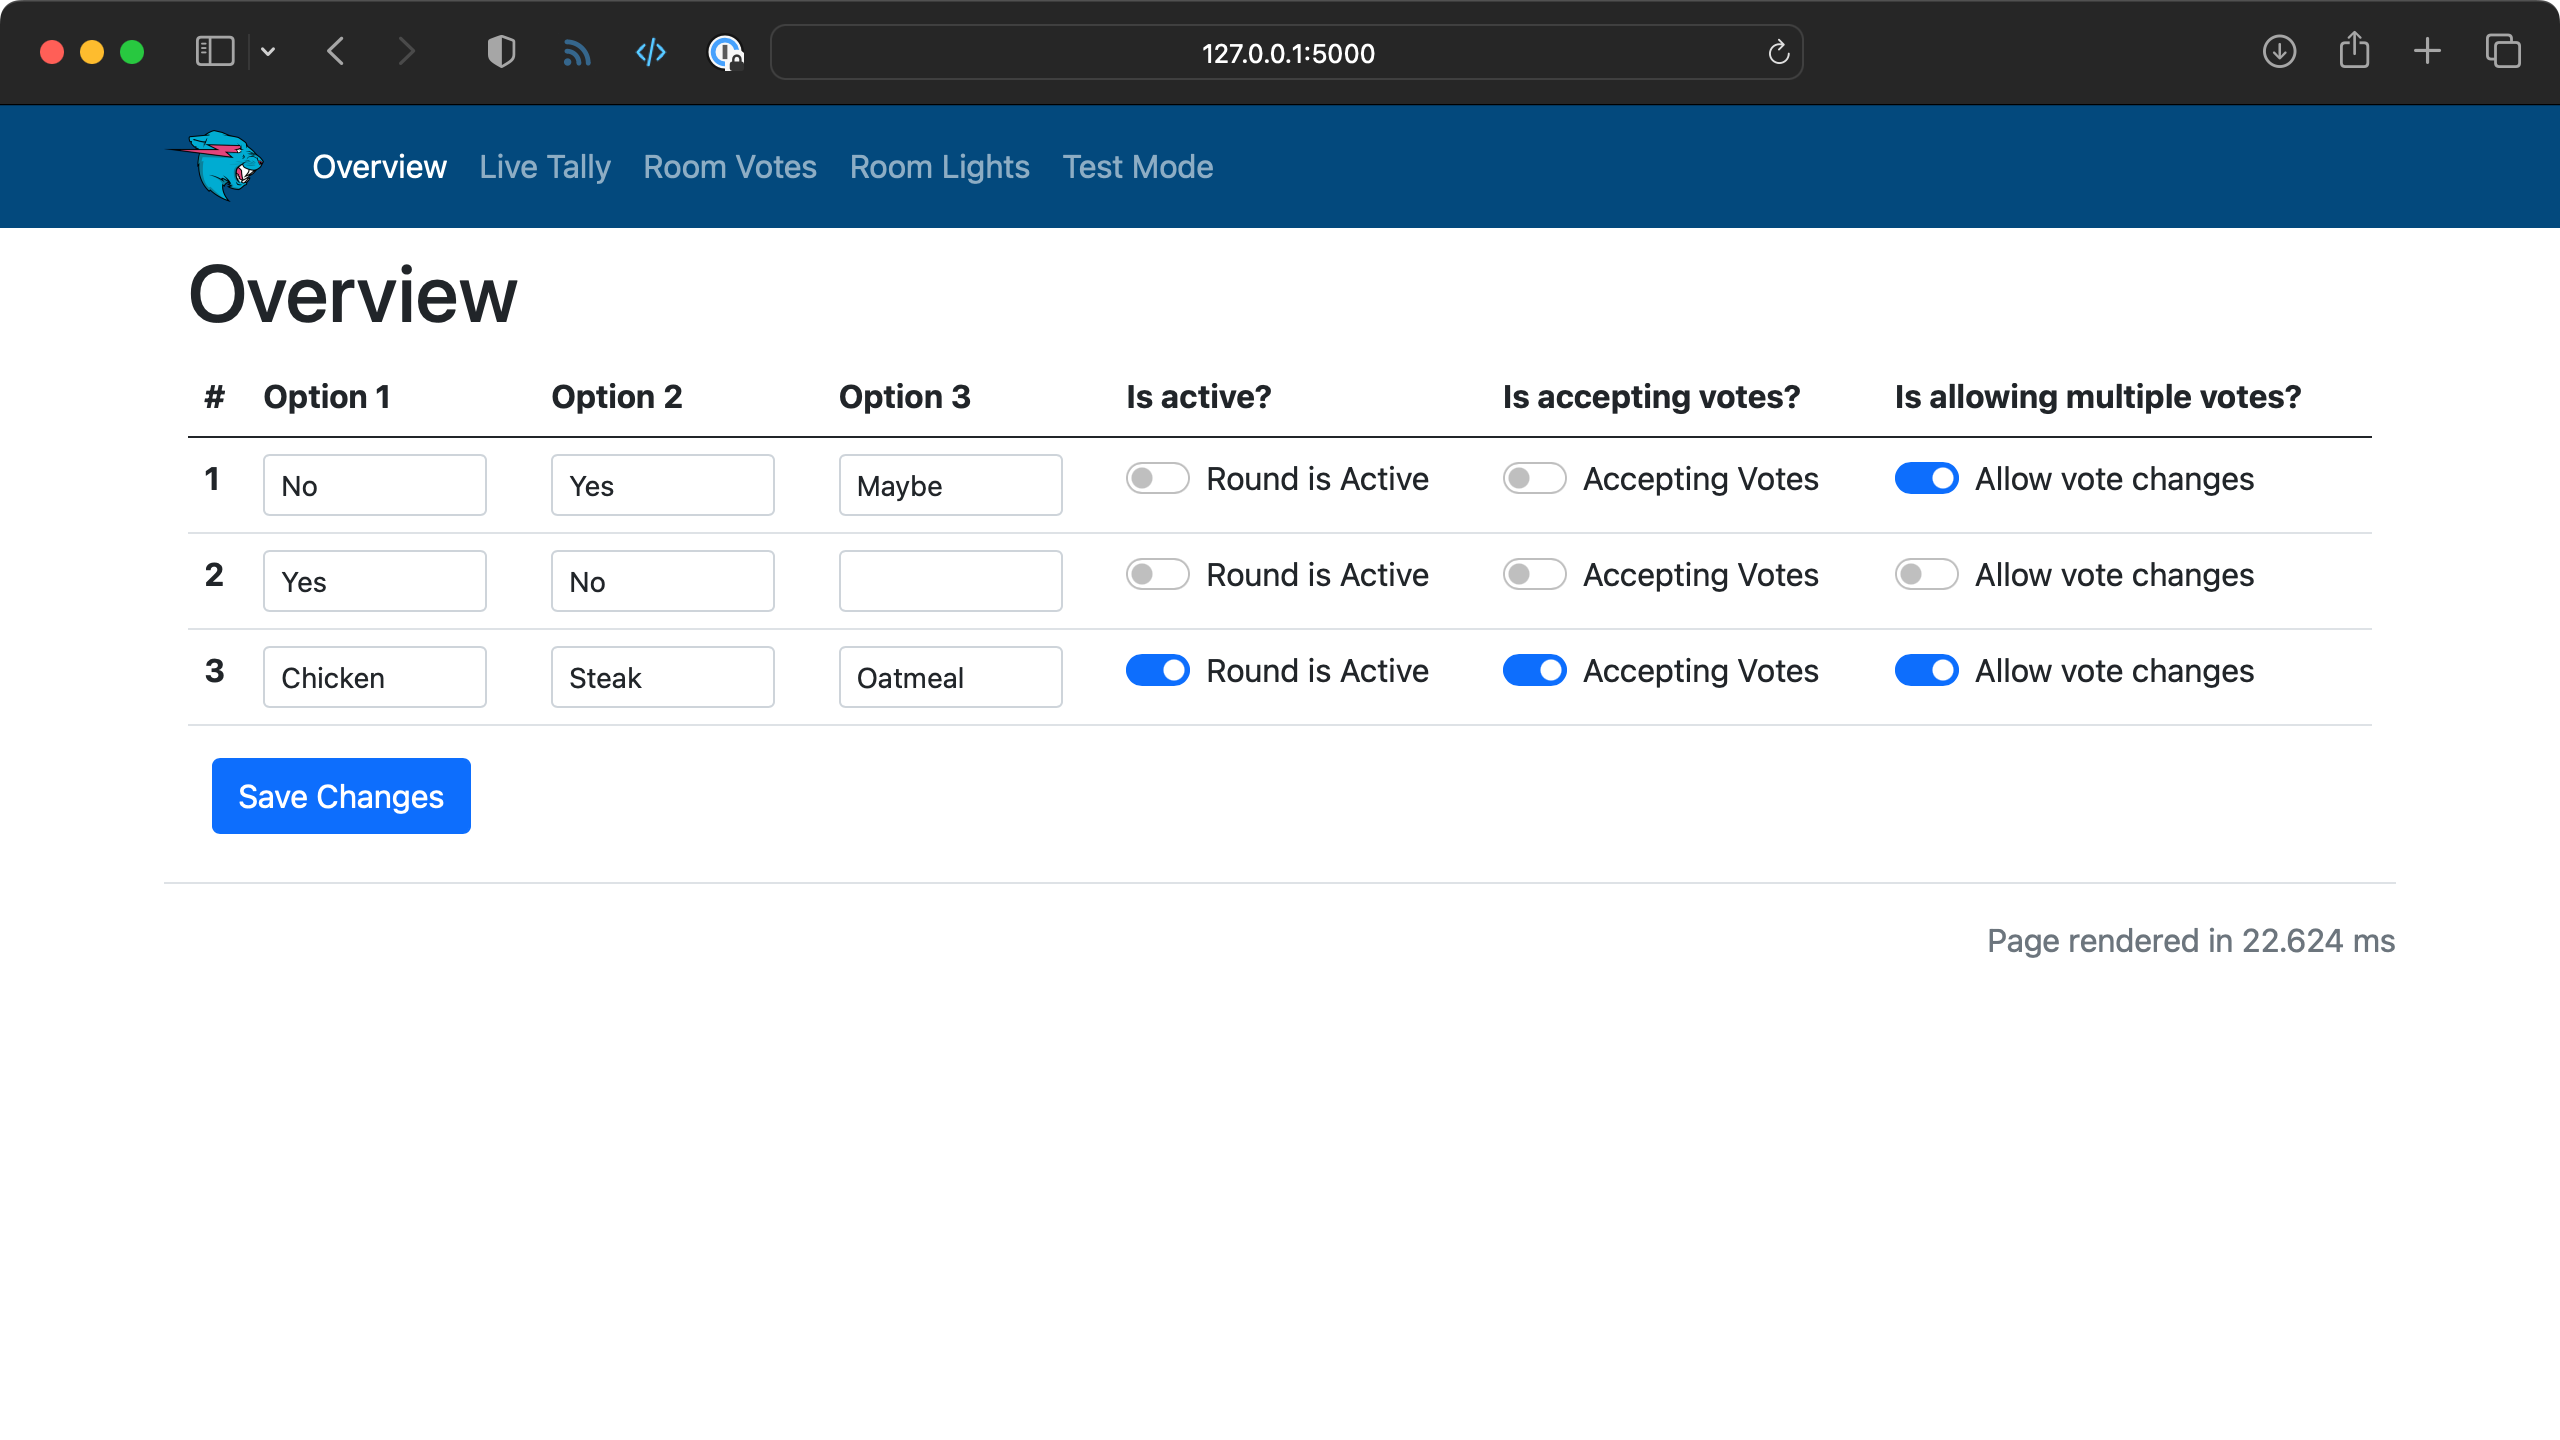
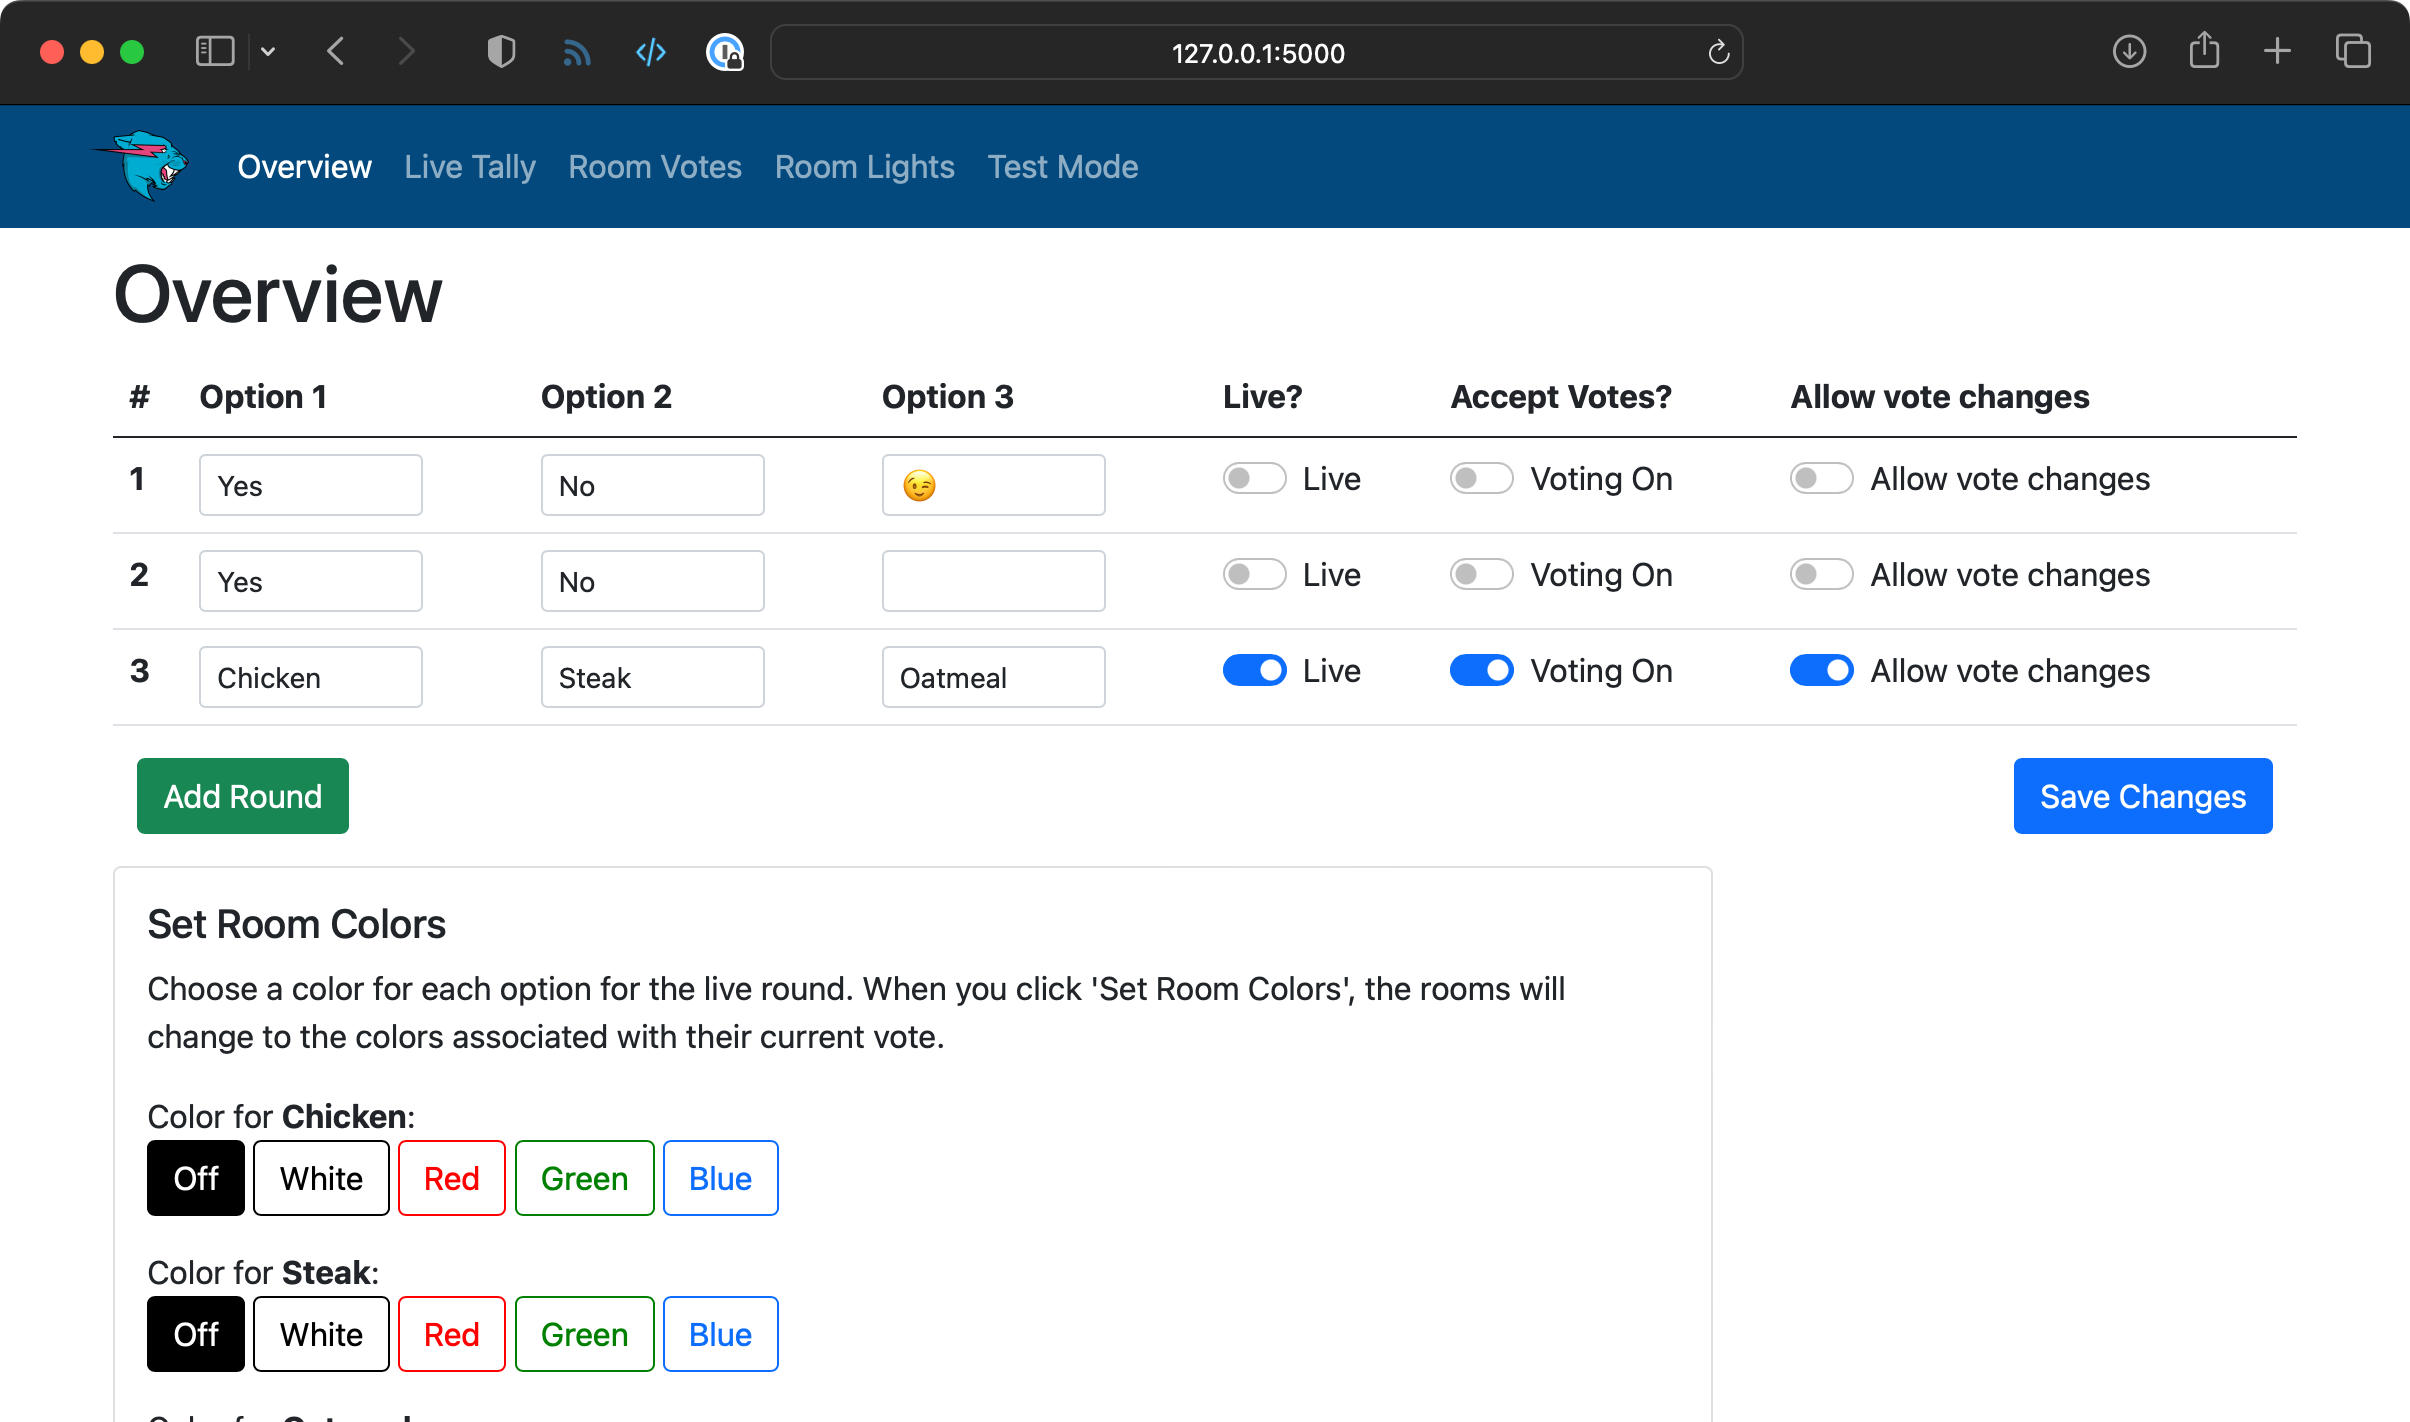
Issue #25: Update screenshot and tweak initial database layout.

diff --git a/leader-app/init_db.py b/leader-app/init_db.py
@@ -113,7 +113,7 @@ cur.execute("INSERT INTO rooms (room_id, mac_address, color) VALUES (?,?,?)", (1
 
 # Populate the rounds table with some values.
 time_now = time.strftime("%Y-%m-%d %H:%M:%f", time.gmtime())
-cur.execute("INSERT INTO rounds (round_id, start_time, close_time, is_accepting_votes, is_current, is_allowing_multiple_votes, value_0, value_1, value_2) VALUES (?,?,?,?,?,?,?,?,?)", (1,"2023-03-01 23:36:37.171","2023-03-01 23:38:23.249",1,0,1,"TEST","MODE","ONLY"))
+cur.execute("INSERT INTO rounds (round_id, start_time, close_time, is_accepting_votes, is_current, is_allowing_multiple_votes, value_0, value_1, value_2) VALUES (?,?,?,?,?,?,?,?,?)", (1,"2023-03-01 23:36:37.171","2023-03-01 23:38:23.249",0,0,0,"TEST","MODE","ONLY"))
 cur.execute("INSERT INTO rounds (round_id, start_time, close_time, is_accepting_votes, is_current, is_allowing_multiple_votes, value_0, value_1) VALUES (?,?,?,?,?,?,?,?)", (2,"2023-03-01 23:39:23.249","2023-03-01 23:42:23.249",0,0,0,"Yes","No"))
 cur.execute("INSERT INTO rounds (round_id, start_time, is_accepting_votes, is_current, is_allowing_multiple_votes, value_0, value_1, value_2) VALUES (?,?,?,?,?,?,?,?)", (3,time_now,1,1,1,"Chicken","Steak","Oatmeal"))
 
